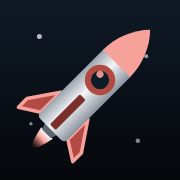
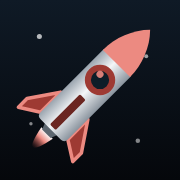
style: darker F3 red
- Accent: #ef6b62 -> #e0544a (dark theme), #d6443a -> #be3329 (light theme)
- Matching darker F3 rocket trim, swatch, site icon and Apple touch icon

Claude-Session: https://claude.ai/code/session_01MmhQMWmGUDg5edKDCnrU7K

diff --git a/apps/web/src/app/globals.css b/apps/web/src/app/globals.css
@@ -18,8 +18,8 @@
   --ink: #ece7df;
   --ink-soft: #b8bcc4;
   --muted: #7c828d;
-  --accent: #ef6b62;
-  --accent-soft: rgb(239 107 98 / 0.14);
+  --accent: #e0544a;
+  --accent-soft: rgb(224 84 74 / 0.14);
   --glow-1: rgb(22 40 60 / 0.55);
   --glow-2: rgb(18 34 52 / 0.5);
   --card-shadow:
@@ -33,9 +33,9 @@
 
 /* Rocket trim per accent (see ACCENTS in lib/theme.ts). F3 red is the default. */
 :root {
-  --rocket-light: #f6a29b;
-  --rocket-mid: #b04a43;
-  --rocket-dark: #7a2f2a;
+  --rocket-light: #ec8a81;
+  --rocket-mid: #9e3a33;
+  --rocket-dark: #6b2621;
 }
 :root[data-accent="fia"] {
   --rocket-light: #7ee8da;
@@ -71,8 +71,8 @@
   --ink: #171b23;
   --ink-soft: #464e5b;
   --muted: #6b7280;
-  --accent: #d6443a;
-  --accent-soft: rgb(214 68 58 / 0.12);
+  --accent: #be3329;
+  --accent-soft: rgb(190 51 41 / 0.12);
   --glow-1: rgb(196 214 238 / 0.6);
   --glow-2: rgb(214 224 240 / 0.6);
   --card-shadow:

diff --git a/apps/web/src/lib/theme.ts b/apps/web/src/lib/theme.ts
@@ -26,8 +26,8 @@ export const ACCENTS: {
   {
     value: "f3",
     label: "F3",
-    swatch: "#ef6b62",
-    rocket: { light: "#f6a29b", mid: "#b04a43", dark: "#7a2f2a" },
+    swatch: "#e0544a",
+    rocket: { light: "#ec8a81", mid: "#9e3a33", dark: "#6b2621" },
   },
   {
     value: "fia",
